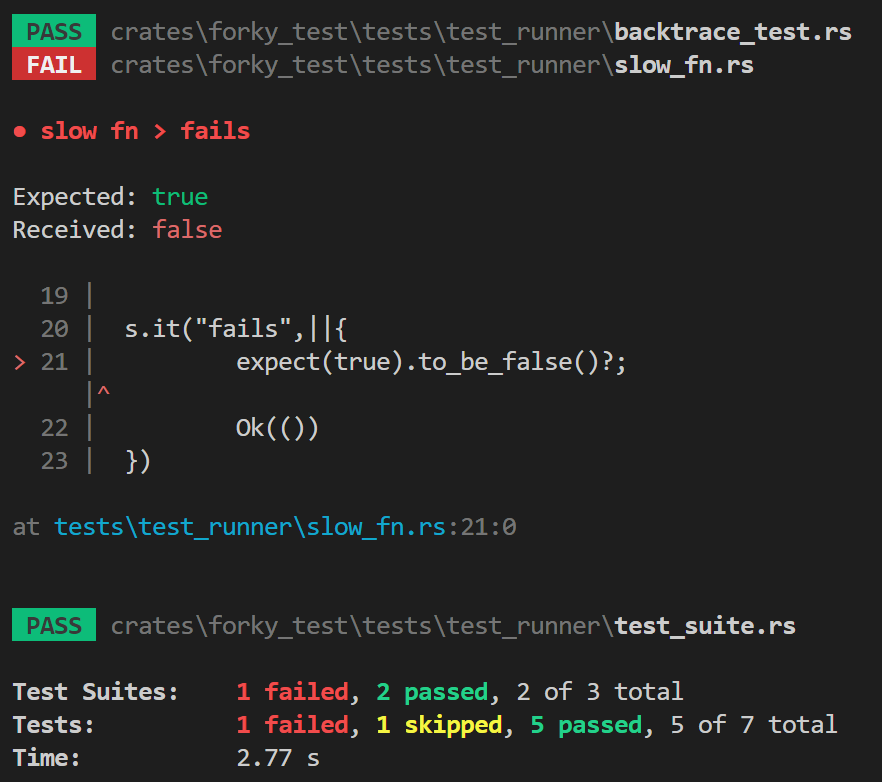
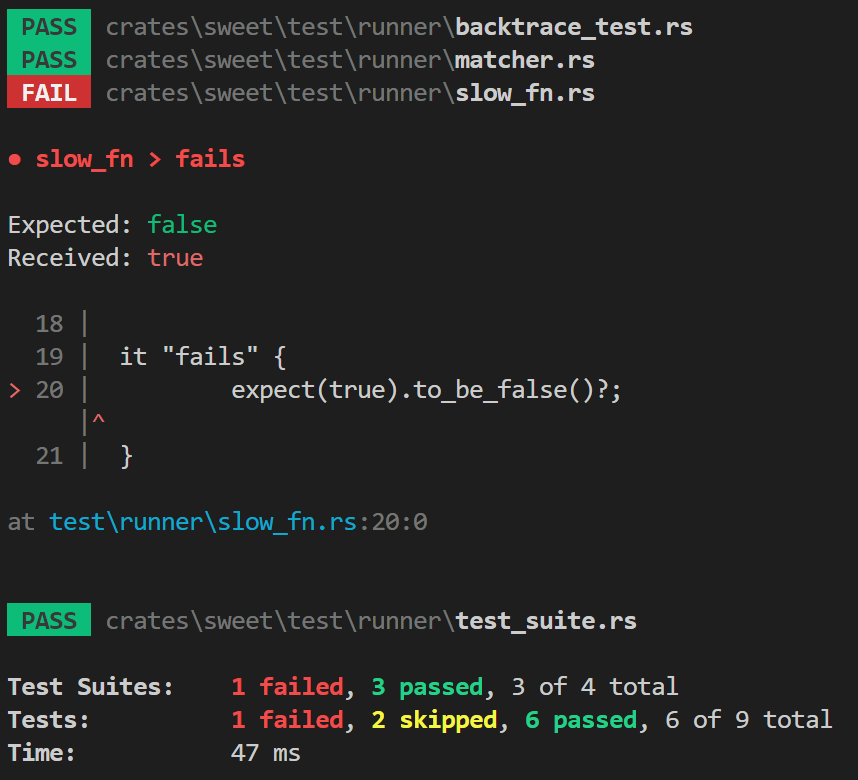
patch

diff --git a/crates/sweet/src/_utility/test_runner.rs b/crates/sweet/src/_utility/test_runner.rs
@@ -22,7 +22,7 @@ pub fn run() -> Result<(), MatcherError> {
 	if args.watch {
 		terminal::clear()
 	}
-	log!("\n🤘 lets get forky! 🤘\n");
+	log!("\n🤘 sweet as! 🤘\n");
 
 	let start_time = Instant::now();
 	let mut suite_results: Vec<TestSuiteResult> = Vec::new();
@@ -78,6 +78,7 @@ pub fn run() -> Result<(), MatcherError> {
 		combined_suite_results.skipped,
 	);
 	print_time(start_time);
+	print!("\n\n");
 
 	if args.watch {
 		return Ok(());
@@ -113,6 +114,7 @@ fn print_summary(prefix: String, total: u32, failed: u32, skipped: u32) {
 	}
 	summaries.push(&passed_str);
 	summaries.push(&total_str);
+	
 
 	log!(prefix.bold() summaries.join(", "));
 }

diff --git a/crates/sweet/test/runner/slow_fn.rs b/crates/sweet/test/runner/slow_fn.rs
@@ -16,7 +16,7 @@ sweet! {
 		expect(a).not().to_be(0.)?;
 	}
 
-	it "fails" {
-		expect(true).to_be_false();
+	it skip "fails" {
+		expect(true).to_be_false()?;
 	}
 }

diff --git a/crates/sweet/README.md b/crates/sweet/README.md
@@ -1,109 +1,79 @@
 # sweet
 
-> *At this stage sweet is a proof of concept, do not use seriously!*
+> *Very early stage warning! No ongoing maintenance is guaranteed*
 
 Basically a [jest](https://jestjs.io/) clone, the `sweet` crate will set you up with a beautiful test harness and intuitive matchers that are easy on the eyes.
 
 ## Quickstart
-`cargo.toml`
-```toml
-[dev-dependencies]
-sweet = # current version here
 
-[[test]]
-name = "sweet"
-path = "test/sweet.rs"
-harness = false
-```
-`test/sweet.rs`
-```rust
-pub use sweet::*;
+1. edit `cargo.toml`
+	```toml
+	[dev-dependencies]
+	sweet = # current version here
 
-sweet! {
-	it "works" {
-		expect(true).to_be_false()?;
+	[[test]]
+	name = "sweet"
+	path = "test/sweet.rs"
+	harness = false
+	```
+1. create file `test/sweet.rs`
+	```rust
+	#![feature(imported_main)]
+	pub use sweet::*;
+
+	sweet! {
+		it "works" {
+			expect(true).to_be_false()?;
+		}
 	}
-}
-```
+	```
+2. run these commands
+	```sh
+	rustup default nightly
+	cargo test --test sweet
+	```
+
 
 ## Features
 
-### Nested Tests
+- Nested Tests
+	- Sweet is designed to collect and run all tests in one go. All tests exposed in the `sweet.rs` file will be run:
 
-Sweet is designed to collect and run all tests in one go. All tests exposed in the `sweet.rs` file will be run:
 
+		```rust
+		//test/sub_dir/some_test.rs
+		sweet!{
+			it "works" {
+				expect(true).to_be_true();
+			}
+		}
+		//test/sub_dir/mod.rs
+		mod some_test
+		//test/sweet.rs
+		#![feature(imported_main)]
+		pub use sweet::*;
+		mod sub_dir;
+		```
+- Pretty success messages
+	- ![success](https://raw.githubusercontent.com/mrchantey/forky/main/docs/images/success.png)
+- In progress indication
+	- ![progress](https://raw.githubusercontent.com/mrchantey/forky/main/docs/images/progress.png)
+- Failure context
+	- ![failure](https://raw.githubusercontent.com/mrchantey/forky/main/docs/images/failure.png)
 
-```rust
-//test/sub_dir/some_test.rs
-sweet!{
-	it "works" {
-		expect(true).to_be_true();
-	}
-}
-//test/sub_dir/mod.rs
-mod some_test
-//test/sweet.rs
-pub mod sweet::*;
-mod sub_dir;
-```
-
-### Pretty success messages
-
-![success](https://raw.githubusercontent.com/mrchantey/forky/main/docs/images/success.png)
-
-### In progress indication
-
-![progress](https://raw.githubusercontent.com/mrchantey/forky/main/docs/images/progress.png)
-
-### Failure context
-
-![failure](https://raw.githubusercontent.com/mrchantey/forky/main/docs/images/failure.png)
-
-## Getting started
-Add the following files:
-
-`Cargo.toml`
-```toml
-[[test]]
-name = "forky"
-path = "tests/main.rs"
-harness = false
-```
-
-`tests/main.rs`
-```rust
-use sweet::*;
-mod my_test;
-
-fn main() -> Result<(), MatcherError> {
-	test_runner::run()
-}
-```
-
-`tests/my_test.rs`
-```rust
-use sweet::*;
-
-describe!("my test", |s| {
-	s.it("works", || {
-		expect(true).to_be_false()?;
-
-		Ok(())
-	});
-});
-```
-
-## Commands
+## Example Commands
 
 - Run 
-   - `cargo test --test forky`
+   - `cargo test --test sweet`
 - With watch
-   - `cargo watch -q -x 'test --test forky -- -w'`
+   - `cargo watch -q -x 'test --test sweet -- -w'`
    - Clears terminal on each run
-   - Returns an exit code zero (cleaner)
+   - Returns an exit code zero (cleaner output)
 - Specify filename
-   - `cargo test --test forky -- my_test`
+   - `cargo test --test sweet -- my_test`
 
 ## Reference
+- [jest](https://jestjs.io/)
+- [demonstrate](https://crates.io/crates/demonstrate)
 - [speculate](https://github.com/utkarshkukreti/speculate.rs)
 	- Nicer syntax
